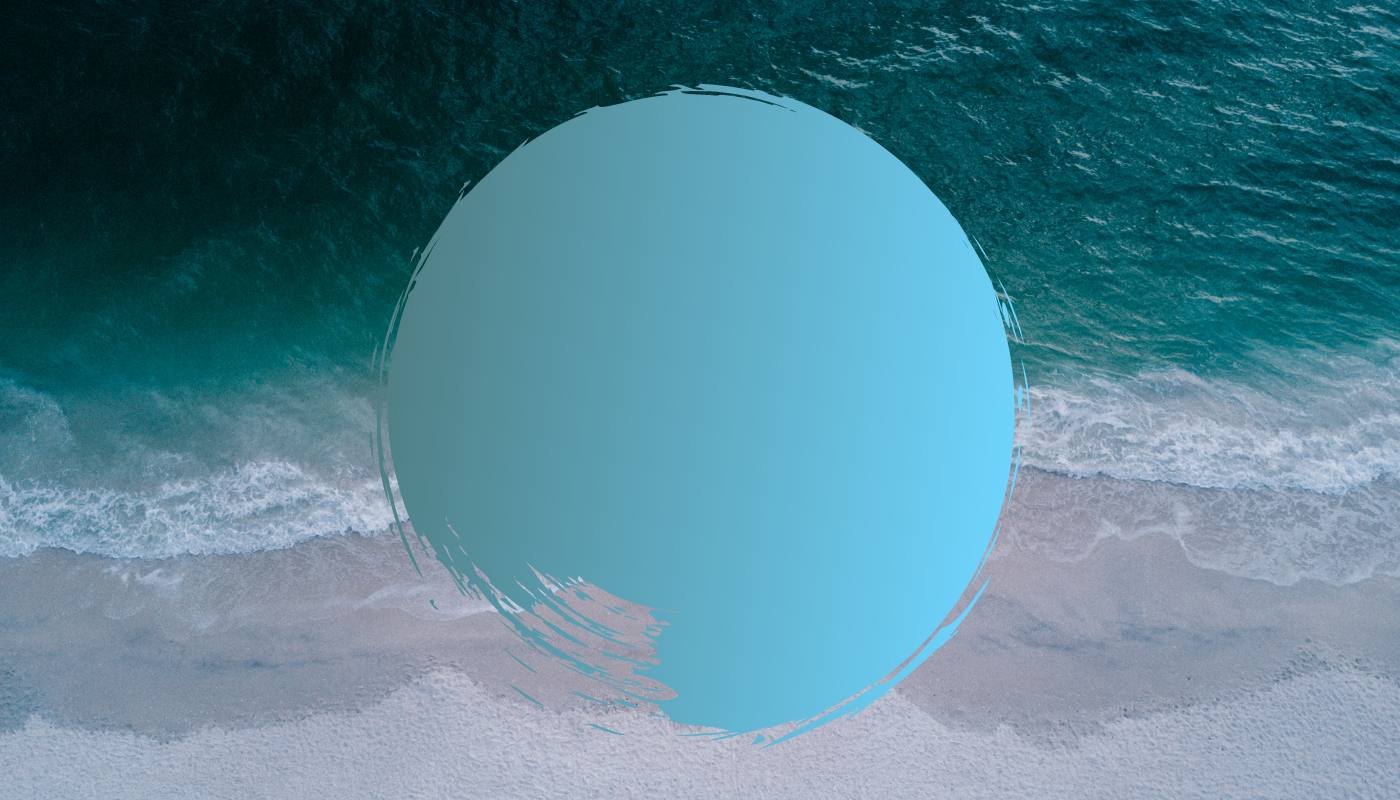
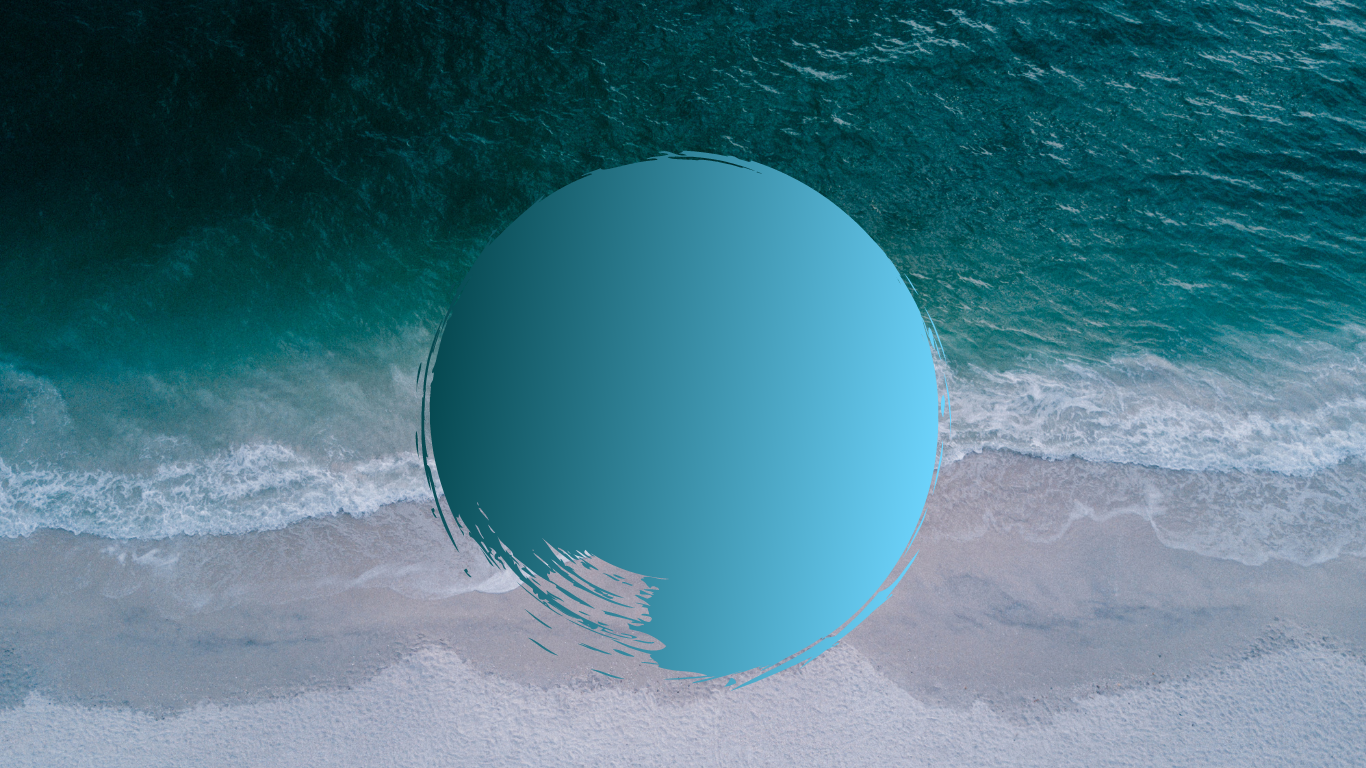
uploaded new files

diff --git a/css/styles.css b/css/styles.css
@@ -1,8 +1,8 @@
 
 body {
     font-family: "Montserrat";   
-   
     text-align: center;
+   
   }
 
 
@@ -19,15 +19,10 @@ body {
 
 
 
-section #title .header{
-  /* height: 800px; */
-  /* width: 100vw; */
-}
 
 
 
-
-.navbar{ padding: 3% 5rem ;}
+.navbar{ padding: 0 0 5rem ;}
 
 .nav-link { 
     color: #8f8f8f; 
@@ -73,32 +68,25 @@ section #title .header{
 #title {
   background-image: url('../images/header.png');
     background-size: cover;
-    /* background-position: center; */
+    background-position: center;
     background-repeat: no-repeat;
-    height: 800px;
+
+}
+
+#title .container-fluid {
+  padding: 3% 15% 7%;
 }
 
 
+   
 
-
-   
-    #title .container-fluid {
-       padding: 5% 15%;
-       
-     }
-    
-.heading {
-  margin-top: 5rem;
-    padding: 5rem;
-   
-   
-}
       
   .big-heading {
     font-family: "Montserrat-Black";
     font-size: 4rem;
     padding: 2rem 0 2rem;
     color: #f6f1ee;
+    margin-top: 20%;
    
   }
   .tag-heading {
@@ -117,7 +105,7 @@ section #title .header{
 
 #about {
 text-align: center;
-color: #4f7d82;
+color: #1499a8
 
 
   }
@@ -142,7 +130,7 @@ color: #4f7d82;
 /* Features Section */
 
 #features {
-  background-color: #4f7d82;
+  background-color: #1499a8;
     text-align: center;
 }
 
@@ -186,7 +174,7 @@ color: #4f7d82;
 
 #work {
   text-align: center;
-  color: #4f7d82;
+  color: #1499a8
     }
     
 #work .container-fluid {
@@ -195,12 +183,12 @@ color: #4f7d82;
 
   .work-title {
     font-size: 1.5rem;
-    color: #4f7d82;
+    color: #1499a8;
     font-weight: bold;
   }
 
   .work-description {
-    color: #4f7d82;
+    color: #1499a8
   }
   
   
@@ -219,6 +207,7 @@ color: #4f7d82;
 
 #relax .container-fluid {
   padding: 5% 5% 5%;
+  background-color: #1499a8;
 }
  
 
@@ -226,9 +215,9 @@ color: #4f7d82;
 /* Rates */
 
 #rates {
-  background-color: #4f7d82;
+  /* background-color: #4f7d82; */
   text-align: center;
-  color: #f6f1ee;
+  color: #1499a8
 }
 
 #rates .container-fluid {

diff --git a/index.html b/index.html
@@ -32,7 +32,8 @@
 
 
 <div class="container-fluid">
-
+  
+  
 
 
     <!-- navbar -->
@@ -68,17 +69,23 @@
 
 
  <!-- Title -->
- <div class="heading">
 
+ <div class="row">
+
+  <div class="col">
     <h1 class="big-heading">Signature Touch Studio</h1>
     <p class="tag-heading">Purest form of Relaxation</p>
-
-  </div>
-  </div>
   </div>
 
+ 
+</div>
 
-</header>
+</div>
+
+
+
+
+  </section>
 
 
   
